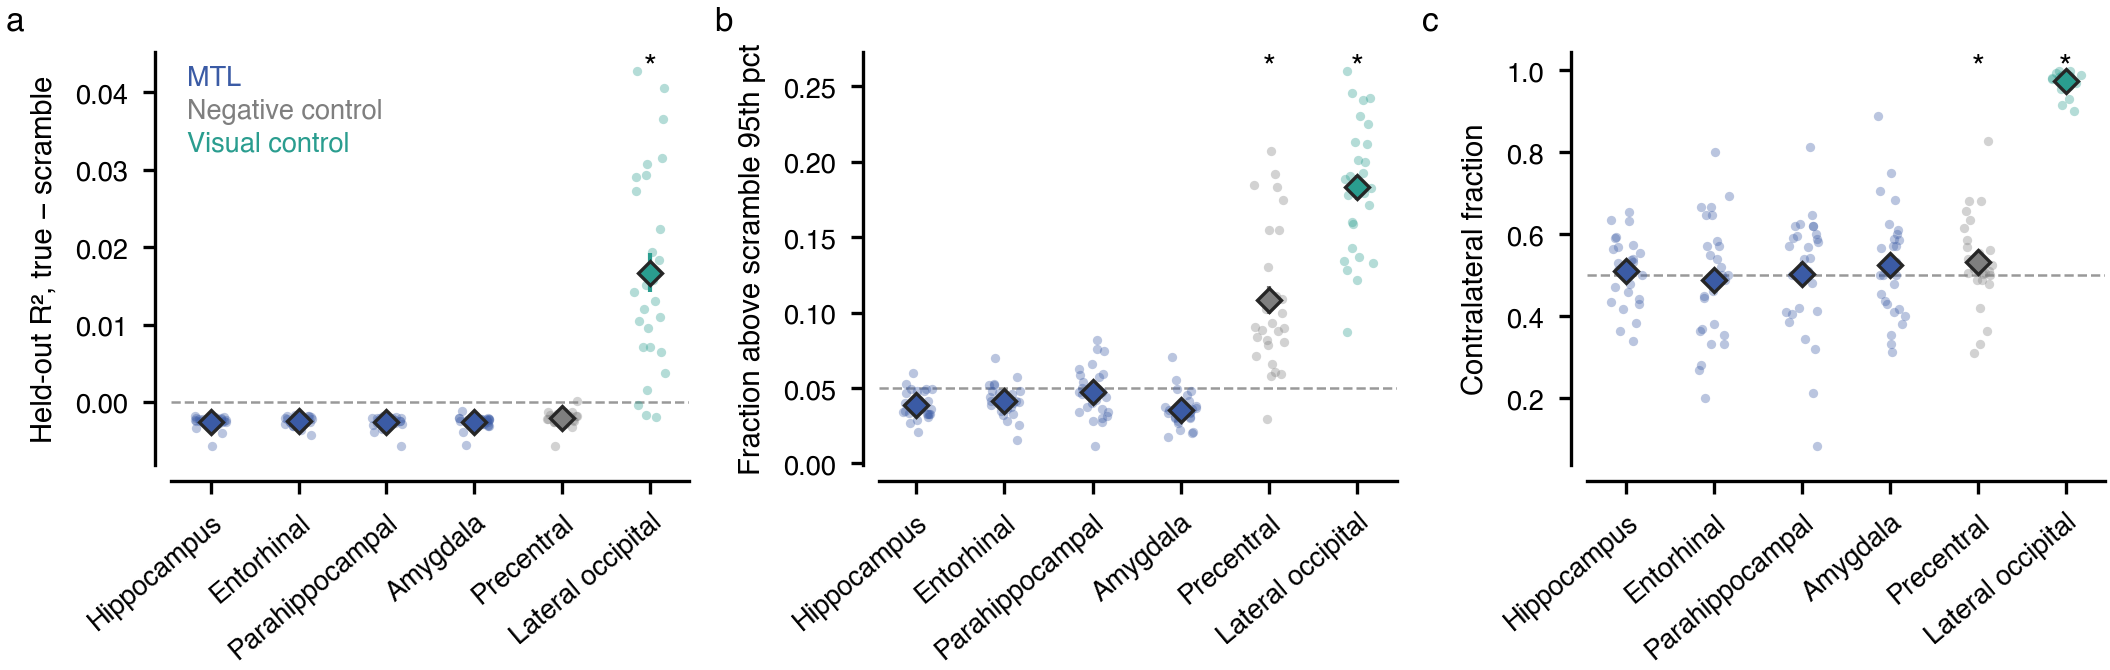
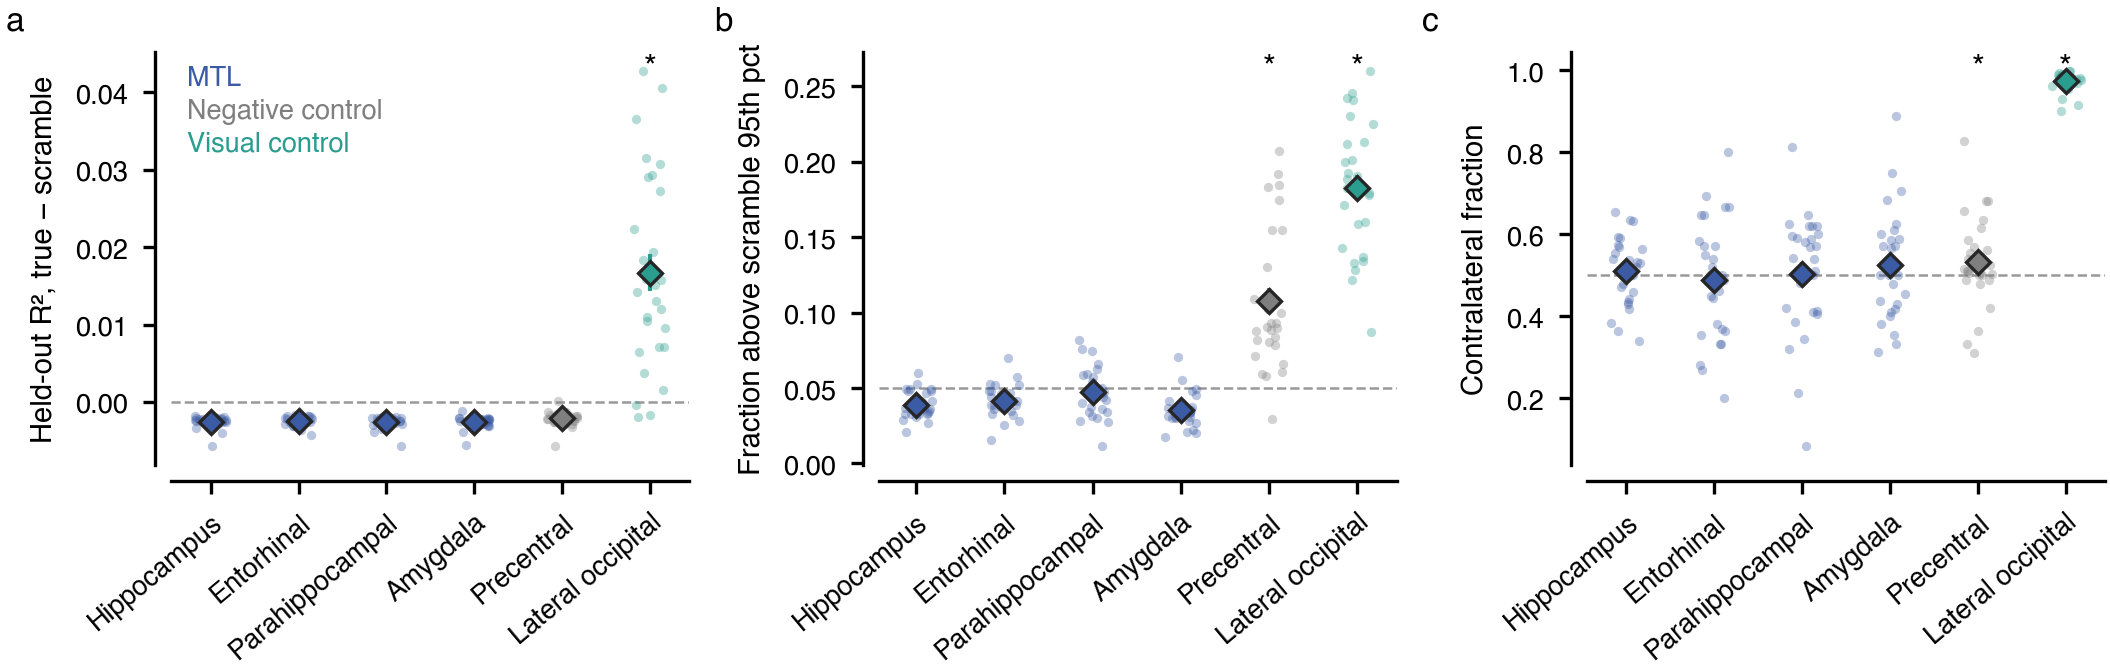
Side hippocampus: final n = 28 for the controls (two reruns), README table updated

diff --git a/notes/side_hippocampus/README.md b/notes/side_hippocampus/README.md
@@ -64,8 +64,8 @@ voxels. Dots: participants. Diamonds: mean ± SEM. \*: p < .05, one-sided (BH ac
 | Entorhinal | −0.003 | −0.001 | −0.0024 ± 0.0001 | 0 / 28 | 1.0 | 0.042 ± 0.002 | 1.0 | 0.49 ± 0.03 | .65 |
 | Parahippocampal | −0.003 | −0.001 | −0.0026 ± 0.0001 | 0 / 28 | 1.0 | 0.047 ± 0.003 | 1.0 | 0.50 ± 0.03 | .41 |
 | Amygdala | −0.004 | −0.001 | −0.0025 ± 0.0001 | 0 / 28 | 1.0 | 0.035 ± 0.002 | 1.0 | 0.53 ± 0.03 | .41 |
-| Precentral (neg.) | −0.002 | −0.000 | −0.0021 ± 0.0002 | 1 / 28 | 1.0 | 0.108 ± 0.009 | < 10⁻⁴ | 0.53 ± 0.02 | .038 (unc.) |
-| Lateral occipital (pos.) | 0.036 | 0.019 | +0.017 ± 0.003 | 24 / 28 | < 10⁻⁴ | 0.183 ± 0.008 | < 10⁻⁴ | 0.97 ± 0.005 | < 10⁻⁴ |
+| Precentral (neg.) | −0.003 | −0.000 | −0.0021 ± 0.0002 | 1 / 28 | 1.0 (unc.) | 0.108 ± 0.009 | 3.7 × 10⁻⁸ (unc.) | 0.53 ± 0.02 | .038 (unc.) |
+| Lateral occipital (pos.) | 0.036 | 0.019 | +0.017 ± 0.002 | 25 / 28 | 9.3 × 10⁻⁸ (unc.) | 0.183 ± 0.008 | 3.7 × 10⁻⁹ (unc.) | 0.97 ± 0.004 | 3.7 × 10⁻⁹ (unc.) |
 
 cvR² columns: mean over participants of the median over voxels. ± is SEM over participants. Full table with exact p:
 `data/prf_cv_tests_dog_roihrf.tsv`.
